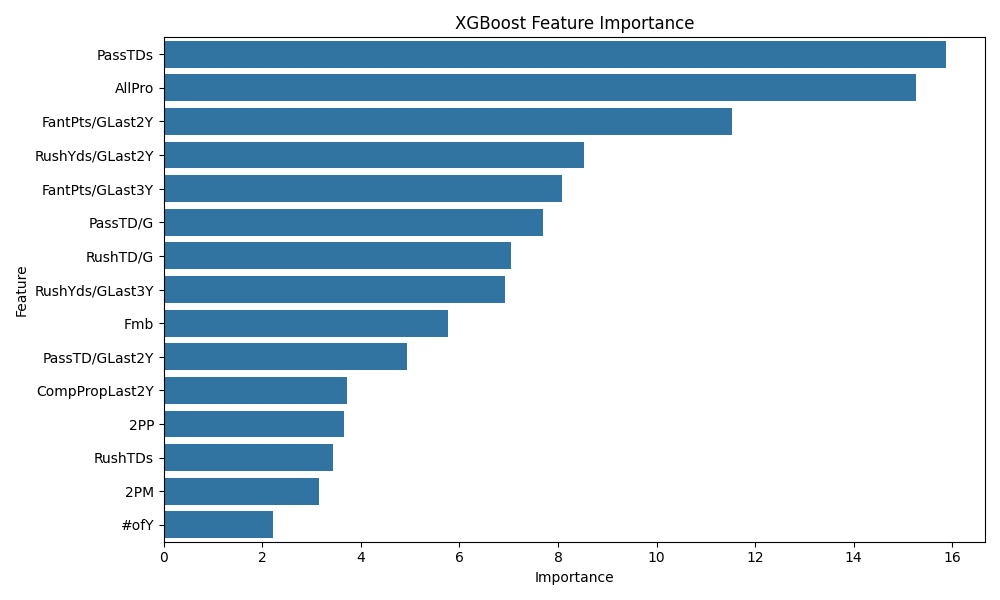
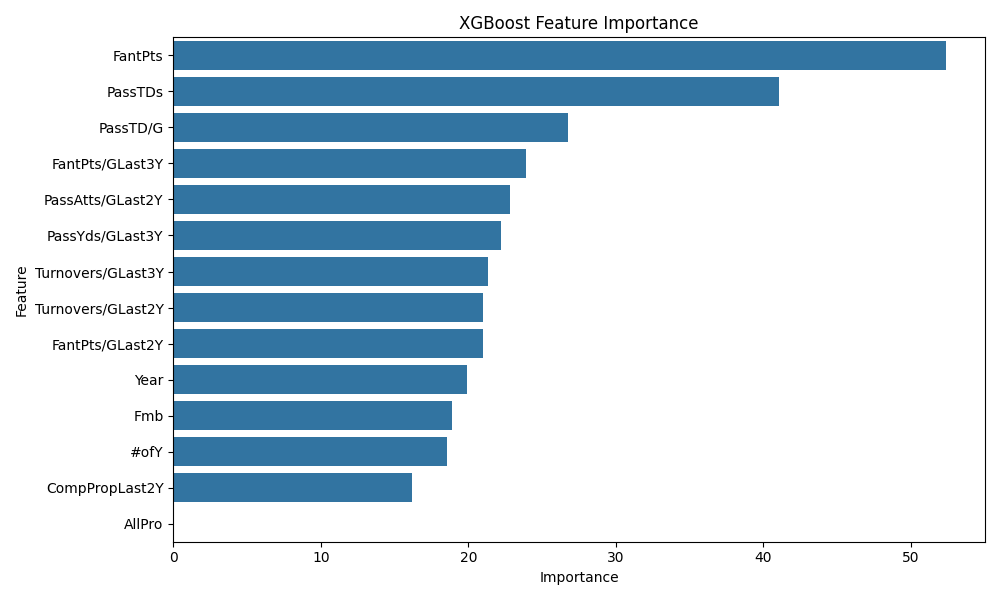
updated

diff --git a/README.md b/README.md
@@ -36,41 +36,45 @@ I engineered relevant features for more effective model training:
 - Created "NextYearFantPt/G" for prediction
 
 ## Feature Selection
-I used mlxtend's Sequential Feature Selector(SFS) to run a forward feature selection on all relevant quantitative variables. This helped me limit total training features to 15, to avoid multicollinearity and overfitting in my model. I evaluated the features using root mean squared error as my scoring variable.
+I used mlxtend's Sequential Feature Selector(SFS) to run a forward feature selection on all relevant quantitative variables. This helped me limit total training features to a range between 12 and 20, to avoid multicollinearity and overfitting in my model. I evaluated the features using root mean squared error as my scoring variable.
 
-The final 15 features selected were:
+The final 14 features selected were:
 
-`Selected Features: ['PassTDs', 'RushTDs', 'Fmb', '2PM', '2PP', 'PassTD/G', 'RushTD/G', 'AllPro', '#ofY', 'CompPropLast2Y', 'PassTD/GLast2Y', 'RushYds/GLast2Y', 'RushYds/GLast3Y', 'FantPts/GLast2Y', 'FantPts/GLast3Y']`
+`Selected Features: ['PassTDs', 'Fmb', 'FantPts', 'Year', 'PassTD/G', 'AllPro', '#ofY', 'CompPropLast2Y', 'PassAtts/GLast2Y', 'PassYds/GLast3Y', 'Turnovers/GLast2Y', 'Turnovers/GLast3Y', 'FantPts/GLast2Y', 'FantPts/GLast3Y']`
 
 ## Model Training
-I trained my model using XGBoost's Regressor (XGBRegressor) using my 15 selected features. 
+I trained my model using XGBoost's Regressor (XGBRegressor) using my 14 selected features. 
 
 To maximize performance and minimize overfitting, I split the dataset: 
-- 50% training
-- 35% validation
-- 15% testing
+- 60% training
+- 20% validation
+- 20% testing
 
-One key challenge was determining the most optimal hyperparameters for my model. I manually tuned parameters through trial and error. The use of early_stopping_rounds helped prevent some overfitting.
+One key challenge was determining the most optimal hyperparameters for my model. The use of lasso regularization, ridge regularization, gamma, subsampling, and early_stopping_rounds helped prevent some over fitting, correcting for variance while keeping bias minimal.
 
 The best configuration was:
-- n_estimators = 500
-- learning_rate = 0.04
-- max_depth = 6
-- early_stopping_rounds = 20
+- n_estimators = 400
+- learning_rate = 0.03
+- max_depth = 4
+- early_stopping_rounds = 30
+- reg_alpha = 1
+- reg_lambda = 4
+- gamma = 0.3
+- subsample = 0.8
+- colsample_bytree = 0.8
+- min_child_weight = 5
 
 ## Model Evaluation & Regression Results
 I evaluated my model using the regression results displayed below. I also visualized feature importance in [feature_importance.png](results/feature_importance.png).
 ![Feature Importance](results/feature_importance.png)
 
-`Testing RMSE = 3.38, Test MAE = 2.58, Test R2 = 0.31`
+`Training RMSE = 2.37, Train MAE = 1.88, Train R2 = 0.69`
+`Validation RMSE = 3.48, Validation MAE = 2.75, Validation R2 = 0.25`
+`Testing RMSE = 3.80, Test MAE = 3.02, Test R2 = 0.39`
 
-`Training RMSE = 0.97, Train MAE = 0.70, Train R2 = 0.95`
+To prevent overfitting, I tried to limit the gap between training to validation & testing regression outputs, even at the cost of hurting overall model performance. This is to allow the model to predict new data with lower variance than if there were to be a large gap between training to validation & testing regression outputs.
 
-My training R2 indicates that the model fits the training data well, explaining 95% of the variance in QB fantasy performance.
-
-My testing R2 indicates that on future data, my model explains 31% of variance in QB fantasy performance. The RMSE of 3.38 implies that my predictions, on average, will vary from the true value by 3.38 fantasy points per game.
-
-The gap between my training and testing regression outputs suggest that there is overfitting in my model. These could be due to the relatively small dataset, noisy data, or the unpredictable nature of NFL games. This model can still capture general trends that may differentiate high-performing QBs from low-performing QBs. 
+As the model prevents overfitting pretty well, the regression outputs are not optimal. This could be due to the relatively small dataset, noisy data, or the unpredictable nature of NFL games. This model can still capture general trends that may differentiate high-performing QBs from low-performing QBs. 
 
 Other features like strength of schedule, team performance, and injury history could improve testing performance. 
 
